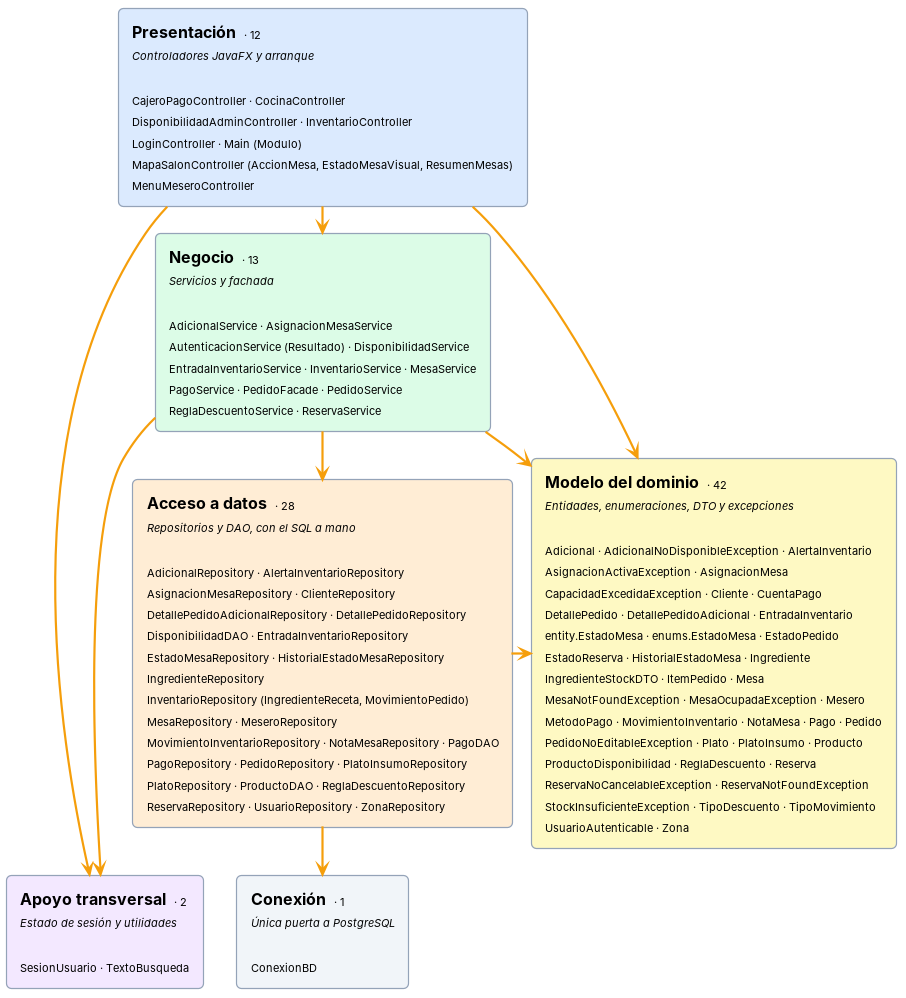
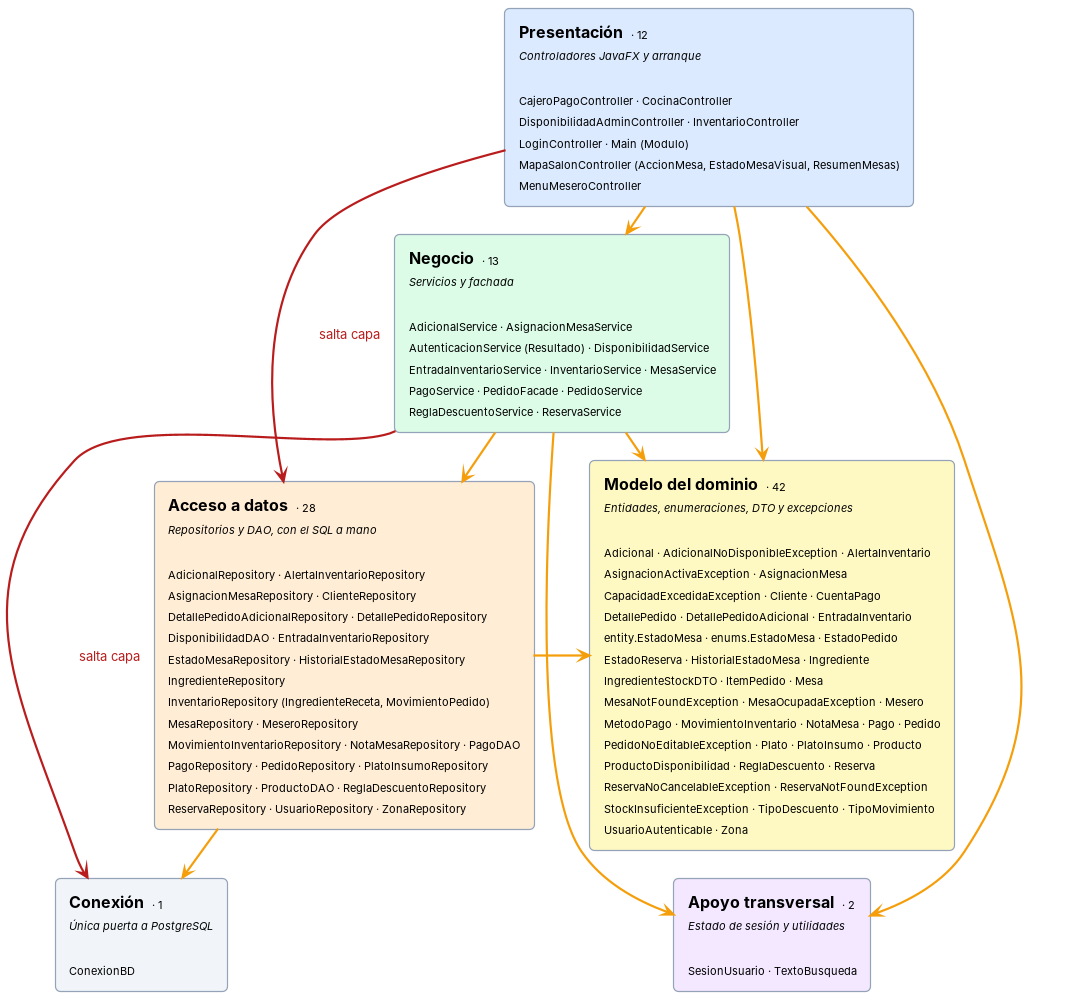
docs: las dos vistas ligeras dibujan tambien los saltos de capa
Al revisarlas aparecio que pintaban una cascada demasiado limpia: solo el
camino presentacion -> negocio -> datos -> conexion, y las dependencias
hacia el modelo y el apoyo. Faltaban las dos que el codigo se salta:
seis controladores llaman directamente a un repositorio, y cuatro
servicios abren la conexion por su cuenta. El resto de los diagramas si
las marcan, asi que estas dos se contradecian con ellos.

Ahora las flechas no estan escritas a mano: salen de relaciones.json y
llamadas.json, se dibujan las diez que existen y las dos que saltan una
capa van en rojo y lo dicen, igual que en el diagrama de arquitectura.

El verificador recalcula esas diez y exige que las dos vistas dibujen
exactamente esas, con las dos rojas donde toca. Probado borrando un
salto, pintandolo como normal, inventando una dependencia y borrando una
real: lo caza todo.

Tambien: "mas de dos tercios del codigo" pasa a "de los tipos", que es lo
que de verdad se esta contando. Por lineas serian la mitad.

diff --git a/docs/diagramas-fuente/herramientas/gen_clases_ligero.py b/docs/diagramas-fuente/herramientas/gen_clases_ligero.py
@@ -16,6 +16,8 @@ BASE = os.environ.get('GF_OUT', '/home/claude/diagramas')
 SAL = BASE + '/puml_clases'
 
 T = json.load(open(BASE + '/clases.json', encoding='utf-8'))
+R = json.load(open(BASE + '/relaciones.json', encoding='utf-8'))
+LL = json.load(open(BASE + '/llamadas.json', encoding='utf-8'))
 
 # las mismas capas que el diagrama de arquitectura y el de componentes, mas
 # el modelo, que en aquellos no es un componente pero aqui es la mitad de
@@ -82,6 +84,60 @@ def nombres(paquetes):
     return out
 
 
+BANDA_DE_PAQ = {p: alias for alias, _t, _c, _pie, paqs in BANDAS + LADO
+                for p in paqs}
+PAQ_DE_NOMBRE = {}
+for t in T:
+    PAQ_DE_NOMBRE.setdefault(t['nombre'], set()).add(t['paquete'])
+
+
+def banda_de(nombre):
+    ps = PAQ_DE_NOMBRE.get(nombre)
+    # un nombre que existe en dos paquetes no se puede asignar a ciegas
+    return BANDA_DE_PAQ.get(next(iter(ps))) if ps and len(ps) == 1 else None
+
+
+def dependencias():
+    """Que banda depende de cual, contando relaciones y llamadas reales."""
+    import collections
+    pares = collections.Counter()
+    for tipo in ('asociacion', 'dependencia', 'generalizacion', 'realizacion'):
+        for r in R[tipo]:
+            a, b = banda_de(r['origen']), banda_de(r['destino'])
+            if a and b and a != b:
+                pares[(a, b)] += 1
+    for l in LL['llamadas']:
+        a, b = banda_de(l['origen']), banda_de(l['destino'])
+        if a and b and a != b:
+            pares[(a, b)] += 1
+    return pares
+
+
+COLUMNA = [x[0] for x in BANDAS]
+
+
+def flechas():
+    """Todas las dependencias que existen, no solo las del camino bonito.
+
+    Las que se saltan una capa van en rojo y dicen que la saltan, igual que
+    en el diagrama de arquitectura: si no, estas dos vistas pintarian una
+    cascada limpia que el codigo no cumple.
+    """
+    out, pares = [], dependencias()
+    # modelo arriba a la derecha: deja la columna de capas casi recta
+    out.append('modelo -[hidden]down- apoyo')
+    for (a, b), n in sorted(pares.items(), key=lambda x: (-x[1], x[0])):
+        salta = (a in COLUMNA and b in COLUMNA
+                 and COLUMNA.index(b) - COLUMNA.index(a) > 1)
+        if a in COLUMNA and b in COLUMNA and not salta:
+            out.append(f'{a} -down-> {b}')
+        elif salta:
+            out.append(f'{a} -[#B91C1C]right-> {b} : <color:#B91C1C>salta capa')
+        else:
+            out.append(f'{a} -right-> {b}')
+    return out
+
+
 def en_lineas(lista, ancho=62):
     """Reparte los nombres en lineas para que la caja no salga kilometrica."""
     lineas, actual = [], ''
@@ -124,17 +180,8 @@ for alias, titulo, color, pie, paquetes in LADO:
 # La pila baja en linea recta y las dos cajas transversales van las dos al
 # mismo lado: si una tira hacia la izquierda y otra hacia la derecha,
 # graphviz dobla la columna y el dibujo deja de leerse de arriba abajo.
-for a, b in zip([x[0] for x in BANDAS], [x[0] for x in BANDAS][1:]):
-    L.append(f'{a} -down-> {b}')
-# modelo primero: es la caja grande y, puesta arriba a la derecha, deja
-# la columna de capas casi recta
-L.append('modelo -[hidden]down- apoyo')
-L += ['presentacion -right-> apoyo',
-      'negocio -right-> apoyo',
-      'presentacion -right-> modelo',
-      'negocio -right-> modelo',
-      'datos -right-> modelo',
-      '@enduml']
+L += flechas()
+L.append('@enduml')
 open(f'{SAL}/00_Mapa_Clases.puml', 'w', encoding='utf-8').write(
     '\n'.join(L) + '\n')
 
@@ -170,15 +217,8 @@ for alias, titulo, color, pie, paquetes in BANDAS + LADO:
              f'<size:12>· {n_t} tipo{"s" if n_t != 1 else ""}</size>\\n'
              f'<size:12><i>{pie}</i></size>\\n'
              f'<size:12>{resumen(paquetes)}</size>" as {alias} {color}')
-for a, b in zip([x[0] for x in BANDAS], [x[0] for x in BANDAS][1:]):
-    C.append(f'{a} -down-> {b}')
-C.append('modelo -[hidden]down- apoyo')
-C += ['presentacion -right-> apoyo',
-      'negocio -right-> apoyo',
-      'presentacion -right-> modelo',
-      'negocio -right-> modelo',
-      'datos -right-> modelo',
-      '@enduml']
+C += flechas()
+C.append('@enduml')
 open(f'{SAL}/00_Resumen_Clases.puml', 'w', encoding='utf-8').write(
     '\n'.join(C) + '\n')
 

diff --git a/docs/diagramas-fuente/herramientas/verificar_resumenes.py b/docs/diagramas-fuente/herramientas/verificar_resumenes.py
@@ -295,6 +295,56 @@ else:
        f'la vista corta tiene las {len(esperado)} bandas',
        f'{sorted(bandas_vistas)} vs {sorted(esperado)}')
 
+print('\n=== las flechas de las dos vistas ligeras ===')
+# Se recalculan aqui desde las relaciones y las llamadas medidas sobre el
+# codigo, y se exige que las dos vistas dibujen exactamente esas y ninguna
+# mas. Sin esto, las dos pintaban una cascada limpia y se callaban los dos
+# saltos de capa que el resto de los diagramas si marcan.
+Rj = json.load(open(f'{BASE}/relaciones.json', encoding='utf-8'))
+LLj = json.load(open(f'{BASE}/llamadas.json', encoding='utf-8'))
+PAQS = {}
+for t in TIPOS:
+    PAQS.setdefault(t['nombre'], set()).add(t['paquete'])
+
+
+def _banda(n):
+    ps = PAQS.get(n)
+    return BANDA.get(next(iter(ps))) if ps and len(ps) == 1 else None
+
+
+reales = set()
+for _t in ('asociacion', 'dependencia', 'generalizacion', 'realizacion'):
+    for r in Rj.get(_t, []):
+        a, b = _banda(r['origen']), _banda(r['destino'])
+        if a and b and a != b:
+            reales.add((a, b))
+for l in LLj['llamadas']:
+    a, b = _banda(l['origen']), _banda(l['destino'])
+    if a and b and a != b:
+        reales.add((a, b))
+COLUMNA = ['presentacion', 'negocio', 'datos', 'conexion']
+saltos = {(a, b) for a, b in reales
+          if a in COLUMNA and b in COLUMNA
+          and COLUMNA.index(b) - COLUMNA.index(a) > 1}
+FL = re.compile(r'^(\w+) -(?:\[#(\w+)\])?(?:up|down|left|right)?'
+                r'(?:\[#(\w+)\])?-+> (\w+)', re.M)
+for arch, texto in (('00_Resumen_Clases.puml', corto if 'corto' in dir() else ''),
+                    ('00_Mapa_Clases.puml', mapa)):
+    if not texto:
+        ok(False, f'{arch}: no se pudo leer')
+        continue
+    dib, rojas = set(), set()
+    for o, c1, c2, d in FL.findall(texto):
+        if o in BANDA.values() or o in esperado:
+            dib.add((o, d))
+            if (c1 or c2) == 'B91C1C':
+                rojas.add((o, d))
+    ok(dib == reales, f'{arch}: dibuja las {len(reales)} dependencias reales '
+       f'entre bandas',
+       f'sobran {sorted(dib - reales)} · faltan {sorted(reales - dib)}')
+    ok(rojas == saltos, f'{arch}: marca en rojo los {len(saltos)} saltos de capa',
+       f'rojas {sorted(rojas)} vs saltos {sorted(saltos)}')
+
 print('\n=== como queda en el .md ===')
 MD = BASE + '/docs_entrega/diagramaComponentes.md'
 texto = open(MD, encoding='utf-8').read() if os.path.exists(MD) else ''

diff --git a/docs/diagramas-fuente/herramientas/gen_docs.py b/docs/diagramas-fuente/herramientas/gen_docs.py
@@ -35,8 +35,11 @@ CLASES = [
      'Los {tipos_codigo} tipos del código en seis bloques, con los paquetes '
      'que forman cada uno y cuántos tipos trae cada paquete. El acceso a '
      'datos y el modelo del dominio son, con diferencia, las dos partes más '
-     'grandes: entre las dos suman más de dos tercios del código. El detalle '
-     'de qué clase está dónde está en el mapa siguiente.'),
+     'grandes: entre las dos suman más de dos tercios de los tipos. Las dos '
+     'flechas rojas son los saltos de capa que el código comete de verdad: '
+     'pantallas que llaman directamente a un repositorio, y servicios que '
+     'abren la conexión por su cuenta. El detalle de qué clase está dónde '
+     'está en el mapa siguiente.'),
     ('puml_clases/00_Mapa_Clases.puml', 'DiagramaClases_Mapa',
      'Mapa del modelo: qué clases hay y en qué capa vive cada una',
      'Los quince diagramas que siguen llevan los atributos y los métodos de '
@@ -47,10 +50,11 @@ CLASES = [
      'bloques. La '
      'columna de la izquierda es el camino normal de una operación, de la '
      'pantalla al servicio, de ahí al repositorio y de ahí a la única clase '
-     'que abre la conexión. A la derecha, el modelo del dominio, que es casi '
-     'la mitad de las clases y lo usan las tres capas de la columna. Las '
-     'clases anidadas van entre paréntesis detrás de la que las contiene, '
-     'porque no son archivos propios.'),
+     'que abre la conexión; en rojo, los dos atajos que el código se permite '
+     'saltándose una capa. A la derecha, el modelo del dominio, que es casi '
+     'la mitad de las clases y lo usan las tres primeras capas de la '
+     'columna. Las clases anidadas van entre paréntesis detrás de la que las '
+     'contiene, porque no son archivos propios.'),
     ('puml_clases/01_entity_A.puml', 'DiagramaClases_Entidades_A',
      'Entidades del dominio (A): adicionales, inventario, mesas y clientes',
      'Las entidades son el vocabulario del sistema: los servicios, los '

diff --git a/docs/diagramaClases.md b/docs/diagramaClases.md
@@ -10,7 +10,7 @@ Documentan el modelo de clases del sistema: 98 tipos, 371 atributos y 663 métod
 
 **Por qué está.** Es la vista más lejana de todas. No da nombres de clase: responde cuántas partes hay, de qué tamaño es cada una y en qué orden dependen unas de otras, que es lo primero que hay que saber al llegar al proyecto.
 
-**Qué muestra.** Los 98 tipos del código en seis bloques, con los paquetes que forman cada uno y cuántos tipos trae cada paquete. El acceso a datos y el modelo del dominio son, con diferencia, las dos partes más grandes: entre las dos suman más de dos tercios del código. El detalle de qué clase está dónde está en el mapa siguiente.
+**Qué muestra.** Los 98 tipos del código en seis bloques, con los paquetes que forman cada uno y cuántos tipos trae cada paquete. El acceso a datos y el modelo del dominio son, con diferencia, las dos partes más grandes: entre las dos suman más de dos tercios de los tipos. Las dos flechas rojas son los saltos de capa que el código comete de verdad: pantallas que llaman directamente a un repositorio, y servicios que abren la conexión por su cuenta. El detalle de qué clase está dónde está en el mapa siguiente.
 
 ---
 
@@ -20,7 +20,7 @@ Documentan el modelo de clases del sistema: 98 tipos, 371 atributos y 663 métod
 
 **Por qué está.** Los quince diagramas que siguen llevan los atributos y los métodos de cada clase, que es lo que hace falta para trabajar pero no para orientarse. Esta vista es la entrada: una banda por capa con los nombres de sus clases y nada más.
 
-**Qué muestra.** Están los 98 tipos del código repartidos en seis bloques. La columna de la izquierda es el camino normal de una operación, de la pantalla al servicio, de ahí al repositorio y de ahí a la única clase que abre la conexión. A la derecha, el modelo del dominio, que es casi la mitad de las clases y lo usan las tres capas de la columna. Las clases anidadas van entre paréntesis detrás de la que las contiene, porque no son archivos propios.
+**Qué muestra.** Están los 98 tipos del código repartidos en seis bloques. La columna de la izquierda es el camino normal de una operación, de la pantalla al servicio, de ahí al repositorio y de ahí a la única clase que abre la conexión; en rojo, los dos atajos que el código se permite saltándose una capa. A la derecha, el modelo del dominio, que es casi la mitad de las clases y lo usan las tres primeras capas de la columna. Las clases anidadas van entre paréntesis detrás de la que las contiene, porque no son archivos propios.
 
 ---
 
